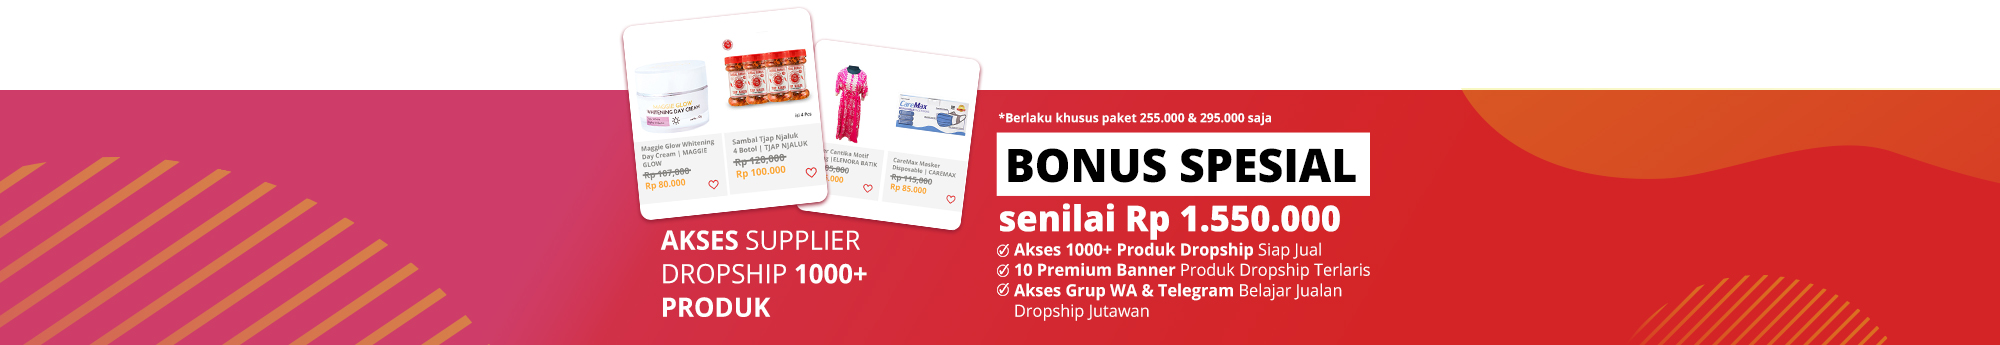
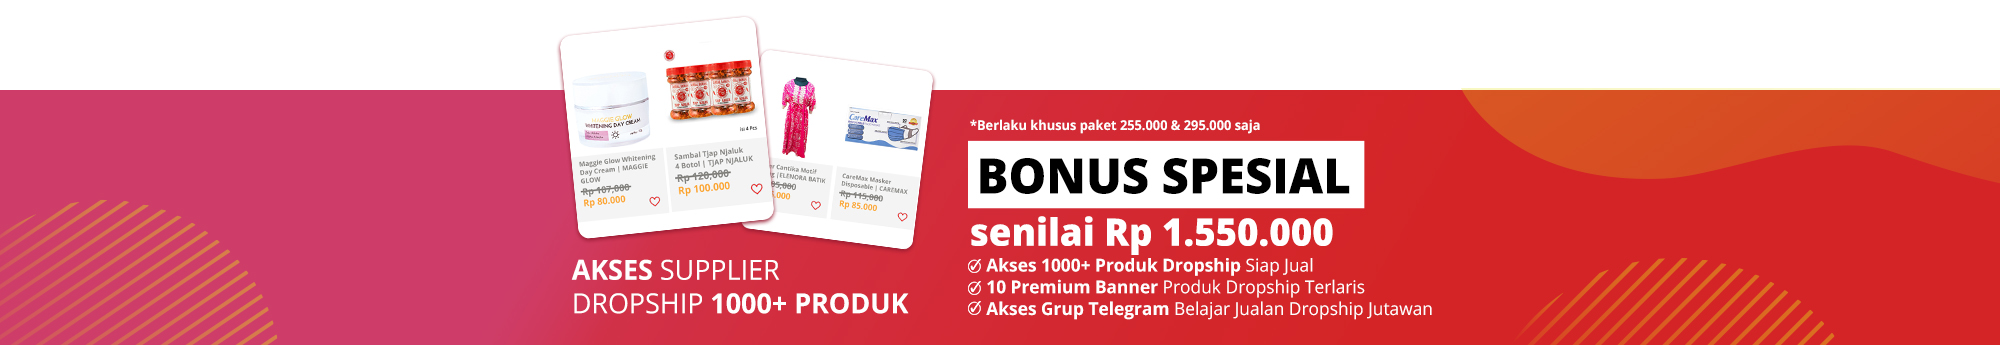
fixing

diff --git a/resources/views/pricing/pricing.blade.php b/resources/views/pricing/pricing.blade.php
@@ -362,7 +362,7 @@
           <li>Buka Bisnis <strong>Jasa Bio Link Kartu Nama Digital</strong></li>
           <li class="li-red"><strong>Bonus Akses 1000+ Produk Dropship</strong><i class="fa fa-star fa-lg clipped"></i></li>
           <li class="li-red"><strong>10 Premium Banner</strong> Produk Dropship Terlaris<i class="fa fa-star fa-lg clipped"></i></li>
-          <li class="li-red"><strong>Akses Group WA & Telegram</strong> Belajar Jualan Dropship Jutawan<i class="fa fa-star fa-lg clipped"></i></li>
+          <li class="li-red"><strong>Akses Group Telegram</strong> Belajar Jualan Dropship Jutawan<i class="fa fa-star fa-lg clipped"></i></li>
           
           <li class="nostyle">&nbsp;</li>
           <li class="nostyle"><i class="fa fa-star fa-lg clipped"></i>&nbsp;:&nbsp;Khusus paket elite dan super</li>
@@ -412,7 +412,7 @@
           <li>Buka Bisnis <strong>Jasa Bio Link Kartu Nama Digital</strong></li>
           <li class="li-red"><strong>Bonus Akses 1000+ Produk Dropship</strong></li>
           <li class="li-red"><strong>10 Premium Banner</strong> Produk Dropship Terlaris</li>
-          <li class="li-red"><strong>Akses Group WA & Telegram</strong> Belajar Jualan Dropship Jutawan</li>
+          <li class="li-red"><strong>Akses Group Telegram</strong> Belajar Jualan Dropship Jutawan</li>
           
         </div>
 
@@ -431,7 +431,7 @@
           <li>Buka Bisnis <strong>Jasa Bio Link Kartu Nama Digital</strong></li>
           <li class="li-red"><strong>Bonus Akses 1000+ Produk Dropship</strong></li>
           <li class="li-red"><strong>10 Premium Banner</strong> Produk Dropship Terlaris</li>
-          <li class="li-red"><strong>Akses Group WA & Telegram</strong> Belajar Jualan Dropship Jutawan</li>
+          <li class="li-red"><strong>Akses Group Telegram</strong> Belajar Jualan Dropship Jutawan</li>
           
         </div>
       </div>  <!-- end row -->
